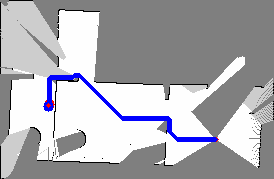
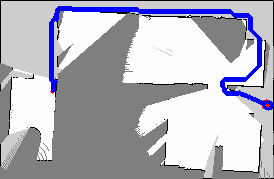
changed input of goselo_maps function and made them change as the robot approaches the goal

diff --git a/src/deep_planner/src/deep_planner.py b/src/deep_planner/src/deep_planner.py
@@ -13,28 +13,16 @@ sys.path.insert(0, caffe_root + 'python')
 import caffe
 import math
 
-if True:
-    _size_width = 1436 #2586
-    _size_height = 553 #798
-    _grid_cell_size_m = 0.05 #0.0500000007451
-else:
-    _size_width = 2586
-    _size_height = 798
-    _grid_cell_size_m = 0.0500000007451
-
 # CNN
 pycaffe_dir = caffe_root + 'python/'
 center_only = True
 image_dims = [224, 224]
-channel_swap =  [0, 1, 2, 3, 4, 5] # [2, 1, 0]
+channel_swap =  [0, 1, 2, 3, 4, 5]
 model_def = '/home/ros/goselo-ros/src/deep_planner/src/models/deploy.prototxt'
 
 #pretrained_model = sys.argv[ 1 ]
 pretrained_model ='/home/ros/goselo-ros/src/deep_planner/src/models/goselo_invisible.caffemodel'
 caffe.set_mode_gpu()
-
-# !!!
-dirs = 36
 
 class publish_global_plan:
 
@@ -46,8 +34,8 @@ class publish_global_plan:
         self.loc_sub = rospy.Subscriber("/goselo_loc",Image,self.callback_goselo_loc,queue_size = 1)
         self.angle_sub = rospy.Subscriber("/angle",Float32,self.callback_angle,queue_size = 1)
         self.odom_sub = rospy.Subscriber("/odom",Odometry,self.callback_odom,queue_size = 1)
-        #self.start_sub = rospy.Subscriber("/initialpose",PoseWithCovarianceStamped,self.callback_initial,queue_size = 1) # topic subscribed from RVIZ
         self.goal_sub = rospy.Subscriber("/move_base_simple/goal",PoseStamped,self.callback_goal,queue_size = 1) # topic subscribed from RVIZ
+
         self.global_plan_pub = rospy.Publisher('/global_plan', Path, queue_size=1)
         self.move_robot = rospy.Publisher('/cmd_vel', Twist, queue_size=10)
         
@@ -55,15 +43,14 @@ class publish_global_plan:
         self.current_y = None
         self.goselo_map = np.zeros((1,1))
         self.goselo_loc = np.zeros((1,1))
-        self._size_width = _size_width   #added
-        self._size_height = _size_height  #added
-        self. cell_size = _grid_cell_size_m  #added
+        self._size_width = 0   #added
+        self._size_height = 0  #added
+        self.cell_size = None  #added
         self.angle = 0 # made it zero instead of none
         self.curr_map = np.zeros((1,1)) #added by mohamed
-        self.goal_x = 0.2
-        self.dir_src = -10000 #added by mohamed
-        self.goal_y = 0.2
-        self.loc = np.zeros( (_size_height, _size_width), dtype=np.int )
+        self.goal_x = None
+        self.goal_y = None
+        self.dir_src = None
         self.classifier = caffe.Classifier(model_def, pretrained_model, image_dims=image_dims, mean=None, input_scale=1.0, raw_scale=255.0, channel_swap=channel_swap)
         self.prev_avoid_direction = None
 
@@ -72,7 +59,10 @@ class publish_global_plan:
         self._size_width = data.info.width
         self._size_height = data.info.height
         self.cell_size = data.info.resolution
+        print "Received a raw map"
     def callback_goselo_map(self,data):
+        print "Received a GOSELO map"
+
         try:
             self.goselo_map = self.bridge.imgmsg_to_cv2(data, "bgr8") / 255.
         except CvBridgeError, e:
@@ -89,6 +79,7 @@ class publish_global_plan:
             return
         else:
             predictions = self.classifier.predict([np.concatenate([self.goselo_map, self.goselo_loc], 2)], not center_only)
+            print "prediction vector is ", predictions
             self.dir_src = np.argmax( predictions )
             
             dir_src = self.dir_src
@@ -102,18 +93,15 @@ class publish_global_plan:
             if dir_dst == 36:
                 dir_dst = 0
             route = [dir_dst]
-            print 'Route :', route
-
 
             # force avoidance
             avoid_flg = False
-            if (self.curr_map.shape != (1,1) and self.current_x != None and self.current_y != None): # removed .all()
+            if (self.curr_map.shape != (1,1) and self.current_x != None and self.current_y != None and self.angle != 0 and self._size_width != 0 and self._size_height != 0 and self.cell_size != None and self.goal_x != None and self.goal_y != None):
                 x = self.current_x
                 y = self.current_y
-                xA = int(round(x/self.cell_size)) + _size_width/2
-                yA = int(round(y/self.cell_size)) + _size_height/2
+                xA = int(round(x/self.cell_size)) + self._size_width/2
+                yA = int(round(y/self.cell_size)) + self._size_height/2
                 print xA, yA
-                self.loc[ yA ][ xA ] += 1
                 xA_ = xA + int(math.cos( route[0] * math.pi / 18. ) * 10)
                 yA_ = yA + int(math.sin( route[0] * math.pi / 18. ) * 10)
                 if self.curr_map[ yA_ ][ xA_ ] :
@@ -156,7 +144,7 @@ class publish_global_plan:
             cmd_vel = Twist()  #added
             cmd_vel.linear.x = 5*_dx  #added
             cmd_vel.linear.y = 5*_dy  #added
-            self.move_robot.publish(cmd_vel)
+            # self.move_robot.publish(cmd_vel)
             print "I published velocity", _dx, _dy
 
 

diff --git a/src/deep_planner/src/sensors_to_map_updated.py b/src/deep_planner/src/sensors_to_map_updated.py
@@ -1,7 +1,7 @@
 #!/usr/bin/env python
 import rospy
 from sensor_msgs.msg import Image
-from nav_msgs.msg import OccupancyGrid, Path
+from nav_msgs.msg import OccupancyGrid, Path, Odometry
 from geometry_msgs.msg import PoseStamped, PoseWithCovarianceStamped
 from std_msgs.msg import Float32
 
@@ -15,8 +15,6 @@ import os
 import scipy
 import scipy.ndimage
 from cv_bridge import CvBridge, CvBridgeError
-#from NamedAtomicLock import NamedAtomicLock
-            
 
 target_imsize = (224, 224)
 
@@ -37,7 +35,8 @@ class publish_input_maps:
         self.loc_pub = rospy.Publisher("/goselo_loc",Image,queue_size = 1)
         self.angle_pub = rospy.Publisher("/angle",Float32,queue_size = 1)
 
-        self.start_s = rospy.Subscriber("/initialpose",PoseWithCovarianceStamped,self.callbackStart,queue_size = 1)
+        self.odom_sub = rospy.Subscriber("/odom",Odometry,self.callbackStart,queue_size = 1)
+
         self.goal_s = rospy.Subscriber("/move_base_simple/goal",PoseStamped,self.callbackGoal,queue_size = 1)
         self.laser_map = rospy.Subscriber("/map",OccupancyGrid,self.callbackMap,queue_size = 1)
 
@@ -88,11 +87,6 @@ class publish_input_maps:
         
         rospy.loginfo("Numpy Map: " + str(input_map.shape))
 
-        #self.curr_locX = 0.1
-        #self.curr_locY = 0.1
-        #self.goal_locX = 0.2
-        #self.goal_locY = 0.2
-
         if(self.current_path.shape == (0,0)):
 	    rospy.loginfo("I received no Path yet!")
 
@@ -110,21 +104,27 @@ class publish_input_maps:
             #print "Path x, y", x,y
             self.path_map[x, y] += 1
 
+        kernel = np.ones((8,8), np.uint8) 
+
         _, the_map = cv2.threshold( input_map, 100, 1, cv2.THRESH_BINARY_INV )
         
-        
-        
+        # thickening the lines in each map
+        self.path_map = cv2.dilate(self.path_map,kernel,iterations = 1)
+        the_map = cv2.dilate(the_map,kernel,iterations = 1)
+
+        print "input_map shape, the_map shape", input_map.shape, the_map.shape
+        # for visualization only
         the_map_ = cv2.resize(the_map, dsize=(224, 224), interpolation=cv2.INTER_CUBIC)
         path_map_ = cv2.resize(self.path_map, dsize=(224, 224), interpolation=cv2.INTER_CUBIC)
         input_map_ = cv2.resize(input_map, dsize=(224, 224), interpolation=cv2.INTER_CUBIC)
 
 
-        cv2.imshow( 'Path Map', path_map_ )
-        cv2.waitKey(3)
-        cv2.imshow( 'The Current Map', input_map_)
-        cv2.waitKey(3)
-        cv2.imshow( 'Thresholded Map', the_map_*255 )
-        cv2.waitKey(3)
+        # cv2.imshow( 'Path Map', path_map_ )
+        # cv2.waitKey(1)
+        # cv2.imshow( 'The Current Map', input_map_)
+        # cv2.waitKey(1)
+        # cv2.imshow( 'Thresholded Map', the_map_*255 )
+        # cv2.waitKey(1)
 
 
         # #############################################################################################
@@ -154,13 +154,18 @@ class publish_input_maps:
         #RGB_img = cv2.cvtColor(map_vis, cv2.COLOR_BGR2RGB)
         map_vis_ = cv2.resize(map_vis, dsize=(224, 224), interpolation=cv2.INTER_CUBIC)
 
-        cv2.imshow( 'Map Locations', map_vis_)
-        cv2.waitKey(3)
+        # cv2.imshow( 'Map Locations', map_vis_)
+        # cv2.waitKey(1)
         
-        
-        
-        goselo_map, goselo_loc, theta = generate_goselo_maps(xA, yA, xB, yB, input_map, self.path_map, data.info.height, data.info.width)
 
+        goselo_map, goselo_loc, theta = generate_goselo_maps(xA, yA, xB, yB, the_map, self.path_map, data.info.height, data.info.width)
+
+        # plot GOSELO maps for debugging and making sure they change as the robot approaches its goal
+        cv2.imshow( 'goselo_map', goselo_map)
+        cv2.waitKey(1)
+        cv2.imshow( 'goselo_loc', goselo_loc)
+        cv2.waitKey(1)
+        
         angle = Float32()		
         angle.data = theta  #in Radians
         self.angle_pub.publish(angle)
@@ -184,10 +189,6 @@ class publish_input_maps:
         print "Published GOSELO Maps + Input Map \n\n\n"
 
 def generate_goselo_maps(xA, yA, xB, yB, the_map, the_map_pathlog, m, n):
-
-    ###############
-    # convert img #
-    ###############
 
     orig_map = np.zeros( (m, n, 4), dtype=np.float )
     orig_map[:,:,0] = np.array(the_map) #/ 255.

diff --git a/src/deep_planner/src/demo_navigation_invisible.py b/src/deep_planner/src/demo_navigation_invisible.py
@@ -196,18 +196,28 @@ for move_count in range(max_move_count):
     # im_map_expand is (179, 274, 3)
     im_map_expand = cv2.erode( im_map_, np.ones((2,2),np.uint8), 1 )
     ret, the_map = cv2.threshold( im_map_, 100, 1, cv2.THRESH_BINARY_INV )
-    cv2.imshow( 'current map', im_map_ )
-    cv2.waitKey(3)
+    # cv2.imshow( 'current map', im_map_ )
+    # cv2.waitKey(3)
     cv2.imshow( 'themap', the_map*255 )
     cv2.waitKey(3)
-    cv2.imshow( 'the_map_pathlog', the_map_pathlog*255 )
-    cv2.waitKey(3)
+    # cv2.imshow( 'the_map_pathlog', the_map_pathlog*255 )
+    # cv2.waitKey(3)
 
     the_map = the_map[:, :, 0] 
     ret, the_map_expand = cv2.threshold( im_map_expand, 100, 1, cv2.THRESH_BINARY_INV )
     the_map_expand = the_map_expand[:, :, 0] 
 
     caffe_input_map, theta = generate_goselo_maps(xA, yA, xB, yB, the_map, the_map_pathlog, m, n)
+
+
+    goselo_map = caffe_input_map[:,:,0:3]
+    goselo_loc = caffe_input_map[:,:,3:6]
+
+    cv2.imshow( 'goselo_map', goselo_map)
+    cv2.waitKey(1)
+    cv2.imshow( 'goselo_loc', goselo_loc)
+    cv2.waitKey(1)
+
 
     #[np.concatenate([goselo_map, goselo_loc], 2)]
     caffe_input_map = caffe_input_map / 255.
